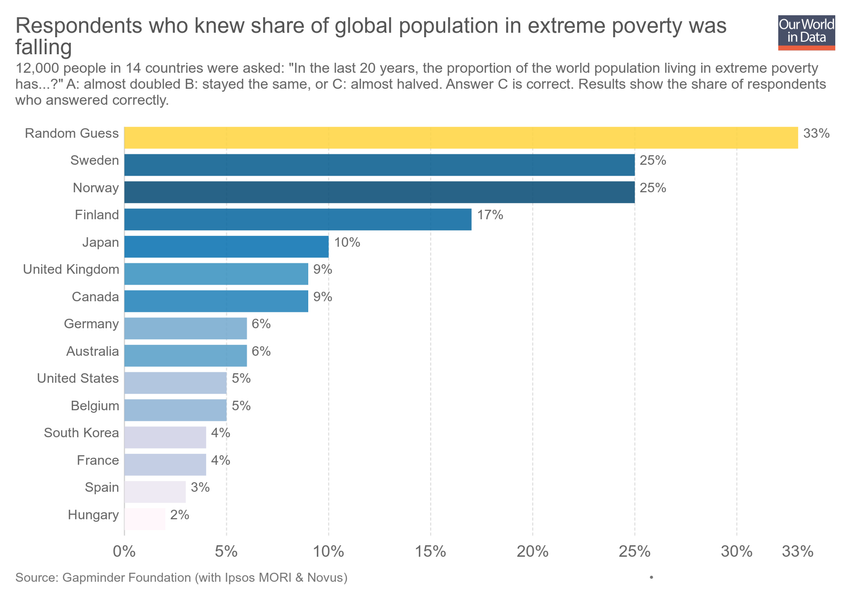
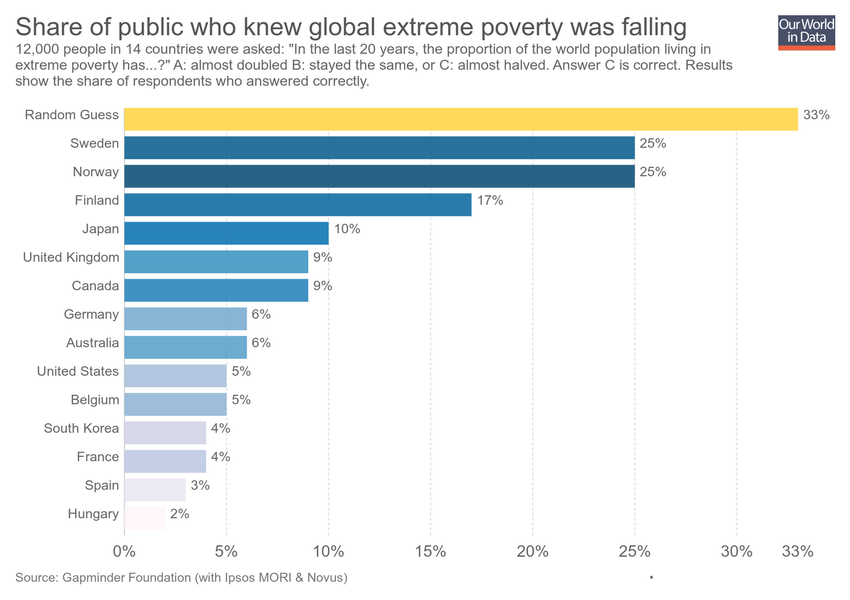
Updating chart gapminder-results-extreme-poverty

Changed region(s): [[0.0, 0.03, 0.9788, 0.87], [0.1835, 0.84, 0.2141, 0.87]]

diff --git a/grapher/gapminder-results-extreme-poverty.html b/grapher/gapminder-results-extreme-poverty.html
@@ -1,7 +1,7 @@
-<!doctype html><html><head><meta name="viewport" content="width=device-width, initial-scale=1" /><title>Respondents who knew share of global population in extreme poverty was falling - Our World in Data</title><meta name="description" content="12,000 people in 14 countries were asked: &quot;In the last 20 years, the proportion of the world population living in extreme poverty has...?&quot; A: almost doubled B: stayed the same, or C: almost halved. Answer C is correct. Results show the share of respondents who answered correctly. 
-" /><link rel="canonical" href="https://ourworldindata.org/grapher/gapminder-results-extreme-poverty" /><meta property="fb:app_id" content="1149943818390250" /><meta property="og:url" content="https://ourworldindata.org/grapher/gapminder-results-extreme-poverty" /><meta property="og:title" content="Respondents who knew share of global population in extreme poverty was falling" /><meta property="og:description" content="12,000 people in 14 countries were asked: &quot;In the last 20 years, the proportion of the world population living in extreme poverty has...?&quot; A: almost doubled B: stayed the same, or C: almost halved. Answer C is correct. Results show the share of respondents who answered correctly. 
-" /><meta property="og:image" content="https://ourworldindata.org/grapher/exports/gapminder-results-extreme-poverty.png?v=2" /><meta property="og:image:width" content="850" /><meta property="og:image:height" content="600" /><meta property="og:site_name" content="Our World in Data" /><meta name="twitter:card" content="summary_large_image" /><meta name="twitter:site" content="@OurWorldInData" /><meta name="twitter:creator" content="@OurWorldInData" /><meta name="twitter:title" content="Respondents who knew share of global population in extreme poverty was falling" /><meta name="twitter:description" content="12,000 people in 14 countries were asked: &quot;In the last 20 years, the proportion of the world population living in extreme poverty has...?&quot; A: almost doubled B: stayed the same, or C: almost halved. Answer C is correct. Results show the share of respondents who answered correctly. 
-" /><meta name="twitter:image" content="https://ourworldindata.org/grapher/exports/gapminder-results-extreme-poverty.png?v=2" /><style>
+<!doctype html><html><head><meta name="viewport" content="width=device-width, initial-scale=1" /><title>Share of public who knew global extreme poverty was falling - Our World in Data</title><meta name="description" content="12,000 people in 14 countries were asked: &quot;In the last 20 years, the proportion of the world population living in extreme poverty has...?&quot; A: almost doubled B: stayed the same, or C: almost halved. Answer C is correct. Results show the share of respondents who answered correctly. 
+" /><link rel="canonical" href="https://ourworldindata.org/grapher/gapminder-results-extreme-poverty" /><meta property="fb:app_id" content="1149943818390250" /><meta property="og:url" content="https://ourworldindata.org/grapher/gapminder-results-extreme-poverty" /><meta property="og:title" content="Share of public who knew global extreme poverty was falling" /><meta property="og:description" content="12,000 people in 14 countries were asked: &quot;In the last 20 years, the proportion of the world population living in extreme poverty has...?&quot; A: almost doubled B: stayed the same, or C: almost halved. Answer C is correct. Results show the share of respondents who answered correctly. 
+" /><meta property="og:image" content="https://ourworldindata.org/grapher/exports/gapminder-results-extreme-poverty.png?v=4" /><meta property="og:image:width" content="850" /><meta property="og:image:height" content="600" /><meta property="og:site_name" content="Our World in Data" /><meta name="twitter:card" content="summary_large_image" /><meta name="twitter:site" content="@OurWorldInData" /><meta name="twitter:creator" content="@OurWorldInData" /><meta name="twitter:title" content="Share of public who knew global extreme poverty was falling" /><meta name="twitter:description" content="12,000 people in 14 countries were asked: &quot;In the last 20 years, the proportion of the world population living in extreme poverty has...?&quot; A: almost doubled B: stayed the same, or C: almost halved. Answer C is correct. Results show the share of respondents who answered correctly. 
+" /><meta name="twitter:image" content="https://ourworldindata.org/grapher/exports/gapminder-results-extreme-poverty.png?v=4" /><style>
         html, body {
             height: 100%;
             margin: 0;
@@ -23,8 +23,8 @@
         }
     </style><noscript><style>
                     figure { display: none !important; }
-                </style></noscript><link rel="stylesheet" href="https://ourworldindata.org/grapher/assets/commons.bundle.046264a5fd643542a8df.css" /><link rel="preload" href="/grapher/data/variables/97386.json?v=2" as="fetch" crossorigin /></head><body class="singleChart"><figure data-grapher-src="/grapher/gapminder-results-extreme-poverty"></figure><noscript id="fallback"><img src="/grapher/exports/gapminder-results-extreme-poverty.svg" /><p>Interactive visualization requires JavaScript</p></noscript><script src="https://cdn.polyfill.io/v2/polyfill.min.js?features=es6,fetch"></script><script src="https://ourworldindata.org/grapher/assets/commons.bundle.046264a5fd643542a8df.js"></script><script src="https://ourworldindata.org/grapher/assets/charts.bundle.dcf65b68eddaba4c6a58.js"></script><script>
-        var jsonConfig = {"id":2591,"map":{"projection":"World","colorSchemeLabels":[],"colorSchemeValues":[],"colorSchemeMinValue":0,"customNumericColors":[],"customCategoryColors":{},"customCategoryLabels":{},"customHiddenCategories":{}},"tab":"chart","slug":"gapminder-results-extreme-poverty","type":"DiscreteBar","title":"Respondents who knew share of global population in extreme poverty was falling","xAxis":{"scaleType":"linear"},"yAxis":{"min":0,"scaleType":"linear"},"version":2,"subtitle":"12,000 people in 14 countries were asked: \"In the last 20 years, the proportion of the world population living in extreme poverty has...?\" A: almost doubled B: stayed the same, or C: almost halved. Answer C is correct. Results show the share of respondents who answered correctly. \n","hasMapTab":false,"stackMode":"absolute","dimensions":[{"display":{},"property":"y","variableId":97386}],"sourceDesc":"Gapminder Foundation (with Ipsos MORI & Novus)","hasChartTab":true,"isPublished":true,"selectedData":[{"index":0,"entityId":6},{"index":0,"entityId":155},{"index":0,"entityId":14},{"index":0,"entityId":23},{"index":0,"entityId":4},{"index":0,"entityId":44},{"index":0,"entityId":3},{"index":0,"entityId":138},{"index":0,"entityId":102},{"color":"#ffd53e","index":0,"entityId":37508},{"index":0,"entityId":127},{"index":0,"entityId":9},{"index":0,"entityId":10},{"index":0,"entityId":1},{"index":0,"entityId":13}],"addCountryMode":"disabled","hideTitleAnnotation":true};
+                </style></noscript><link rel="stylesheet" href="https://ourworldindata.org/grapher/assets/commons.bundle.046264a5fd643542a8df.css" /><link rel="preload" href="/grapher/data/variables/97386.json?v=4" as="fetch" crossorigin /></head><body class="singleChart"><figure data-grapher-src="/grapher/gapminder-results-extreme-poverty"></figure><noscript id="fallback"><img src="/grapher/exports/gapminder-results-extreme-poverty.svg" /><p>Interactive visualization requires JavaScript</p></noscript><script src="https://cdn.polyfill.io/v2/polyfill.min.js?features=es6,fetch"></script><script src="https://ourworldindata.org/grapher/assets/commons.bundle.046264a5fd643542a8df.js"></script><script src="https://ourworldindata.org/grapher/assets/charts.bundle.dcf65b68eddaba4c6a58.js"></script><script>
+        var jsonConfig = {"id":2591,"map":{"projection":"World","colorSchemeLabels":[],"colorSchemeValues":[],"colorSchemeMinValue":0,"customNumericColors":[],"customCategoryColors":{},"customCategoryLabels":{},"customHiddenCategories":{}},"tab":"chart","slug":"gapminder-results-extreme-poverty","type":"DiscreteBar","title":"Share of public who knew global extreme poverty was falling","xAxis":{"scaleType":"linear"},"yAxis":{"min":0,"scaleType":"linear"},"version":4,"subtitle":"12,000 people in 14 countries were asked: \"In the last 20 years, the proportion of the world population living in extreme poverty has...?\" A: almost doubled B: stayed the same, or C: almost halved. Answer C is correct. Results show the share of respondents who answered correctly. \n","hasMapTab":false,"stackMode":"absolute","dimensions":[{"display":{},"property":"y","variableId":97386}],"sourceDesc":"Gapminder Foundation (with Ipsos MORI & Novus)","hasChartTab":true,"isPublished":true,"selectedData":[{"index":0,"entityId":6},{"index":0,"entityId":155},{"index":0,"entityId":14},{"index":0,"entityId":23},{"index":0,"entityId":4},{"index":0,"entityId":44},{"index":0,"entityId":3},{"index":0,"entityId":138},{"index":0,"entityId":102},{"color":"#ffd53e","index":0,"entityId":37508},{"index":0,"entityId":127},{"index":0,"entityId":9},{"index":0,"entityId":10},{"index":0,"entityId":1},{"index":0,"entityId":13}],"addCountryMode":"disabled","hideTitleAnnotation":true};
         var figure = document.getElementsByTagName("figure")[0];
         try {
             window.App = {};
